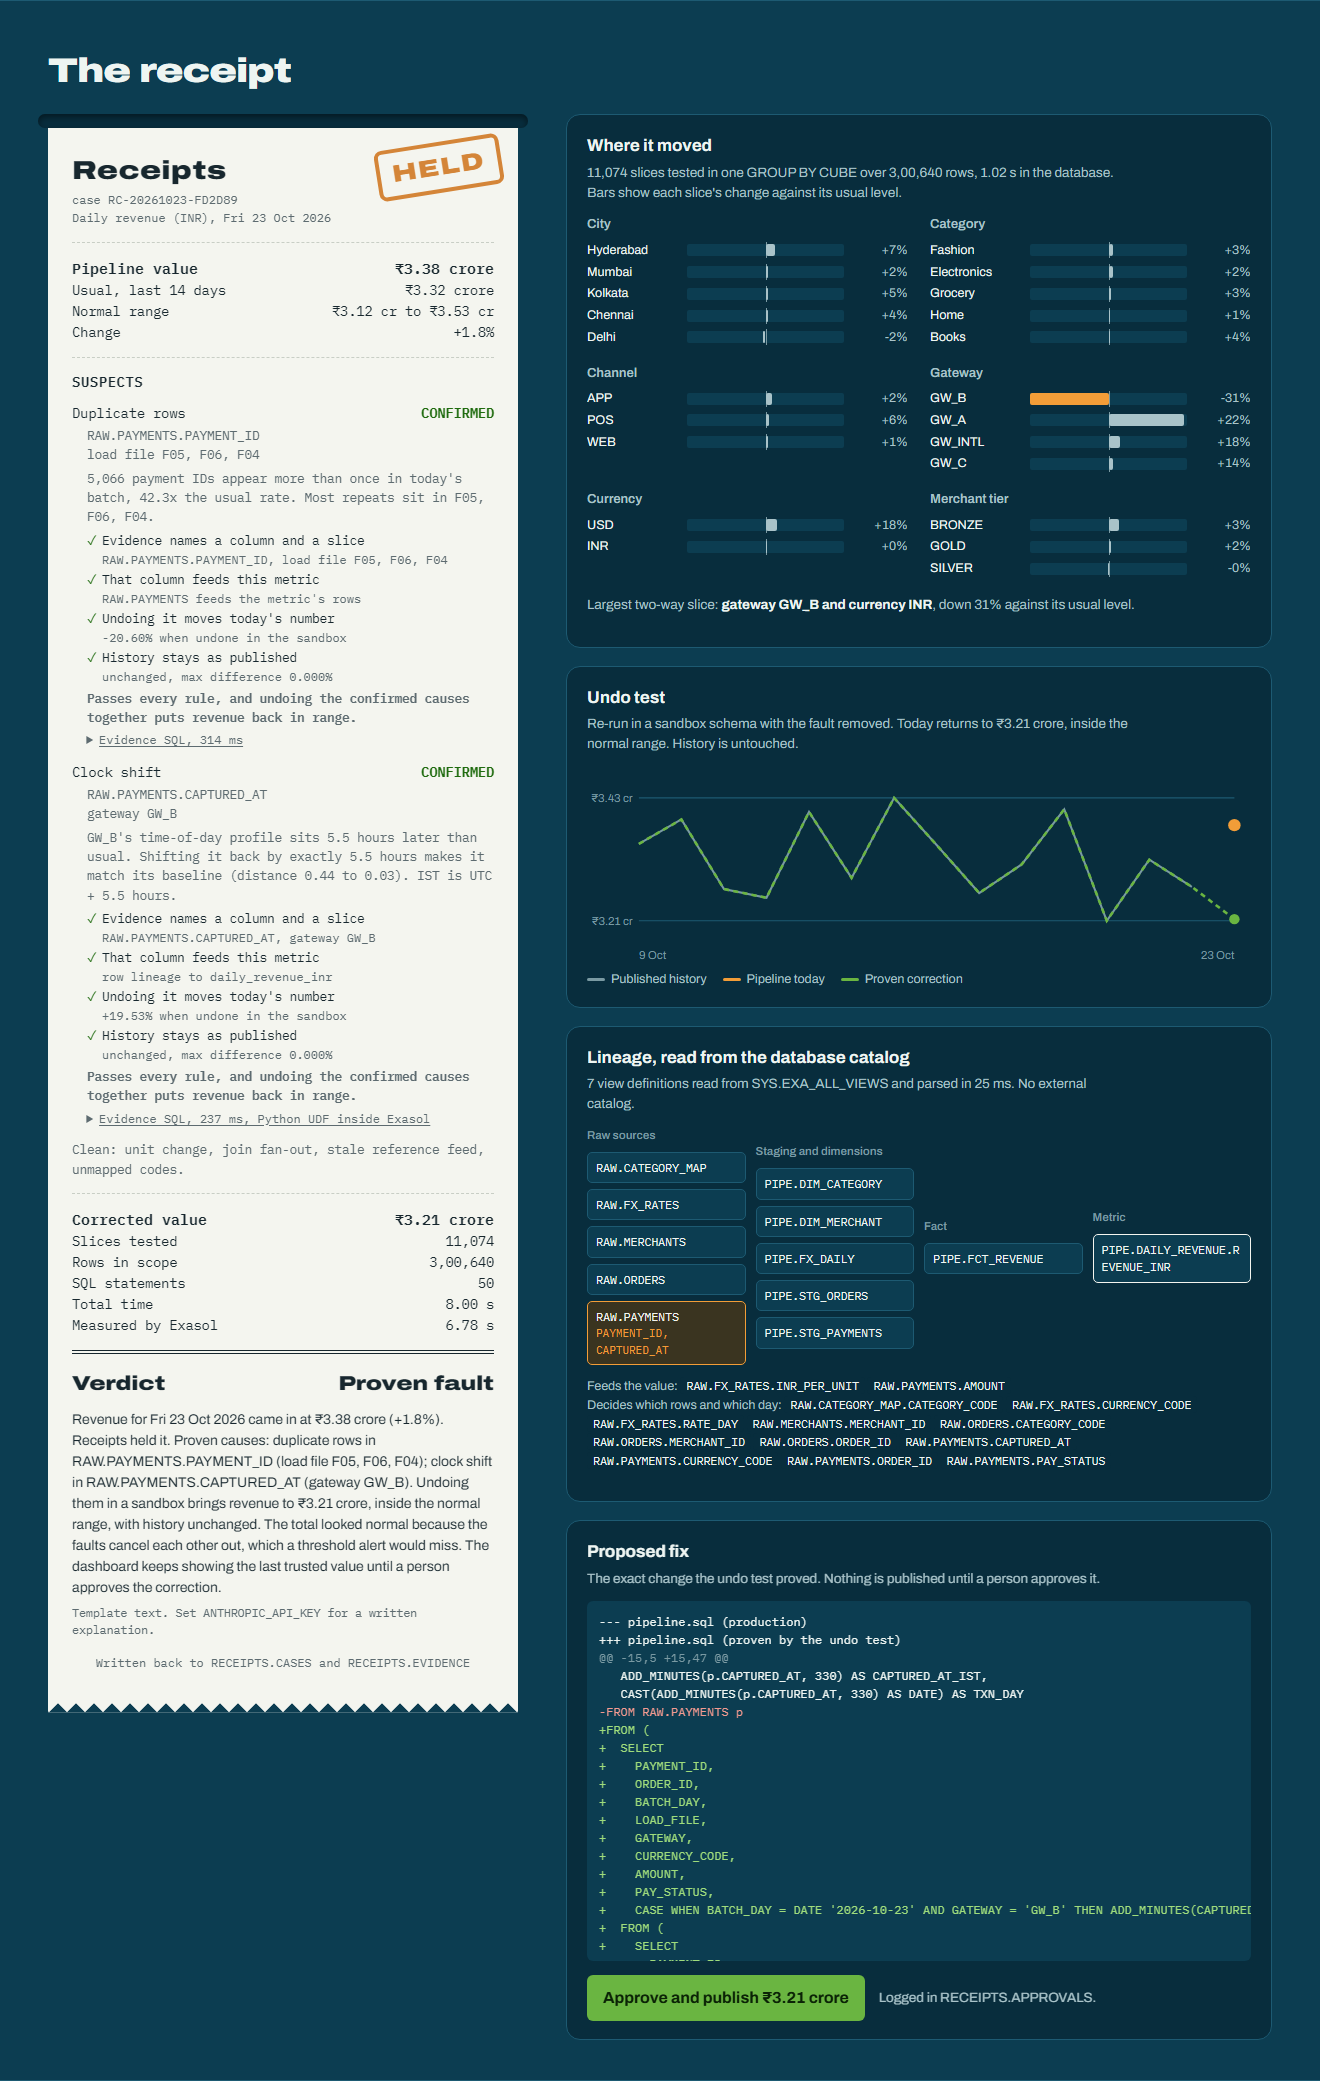
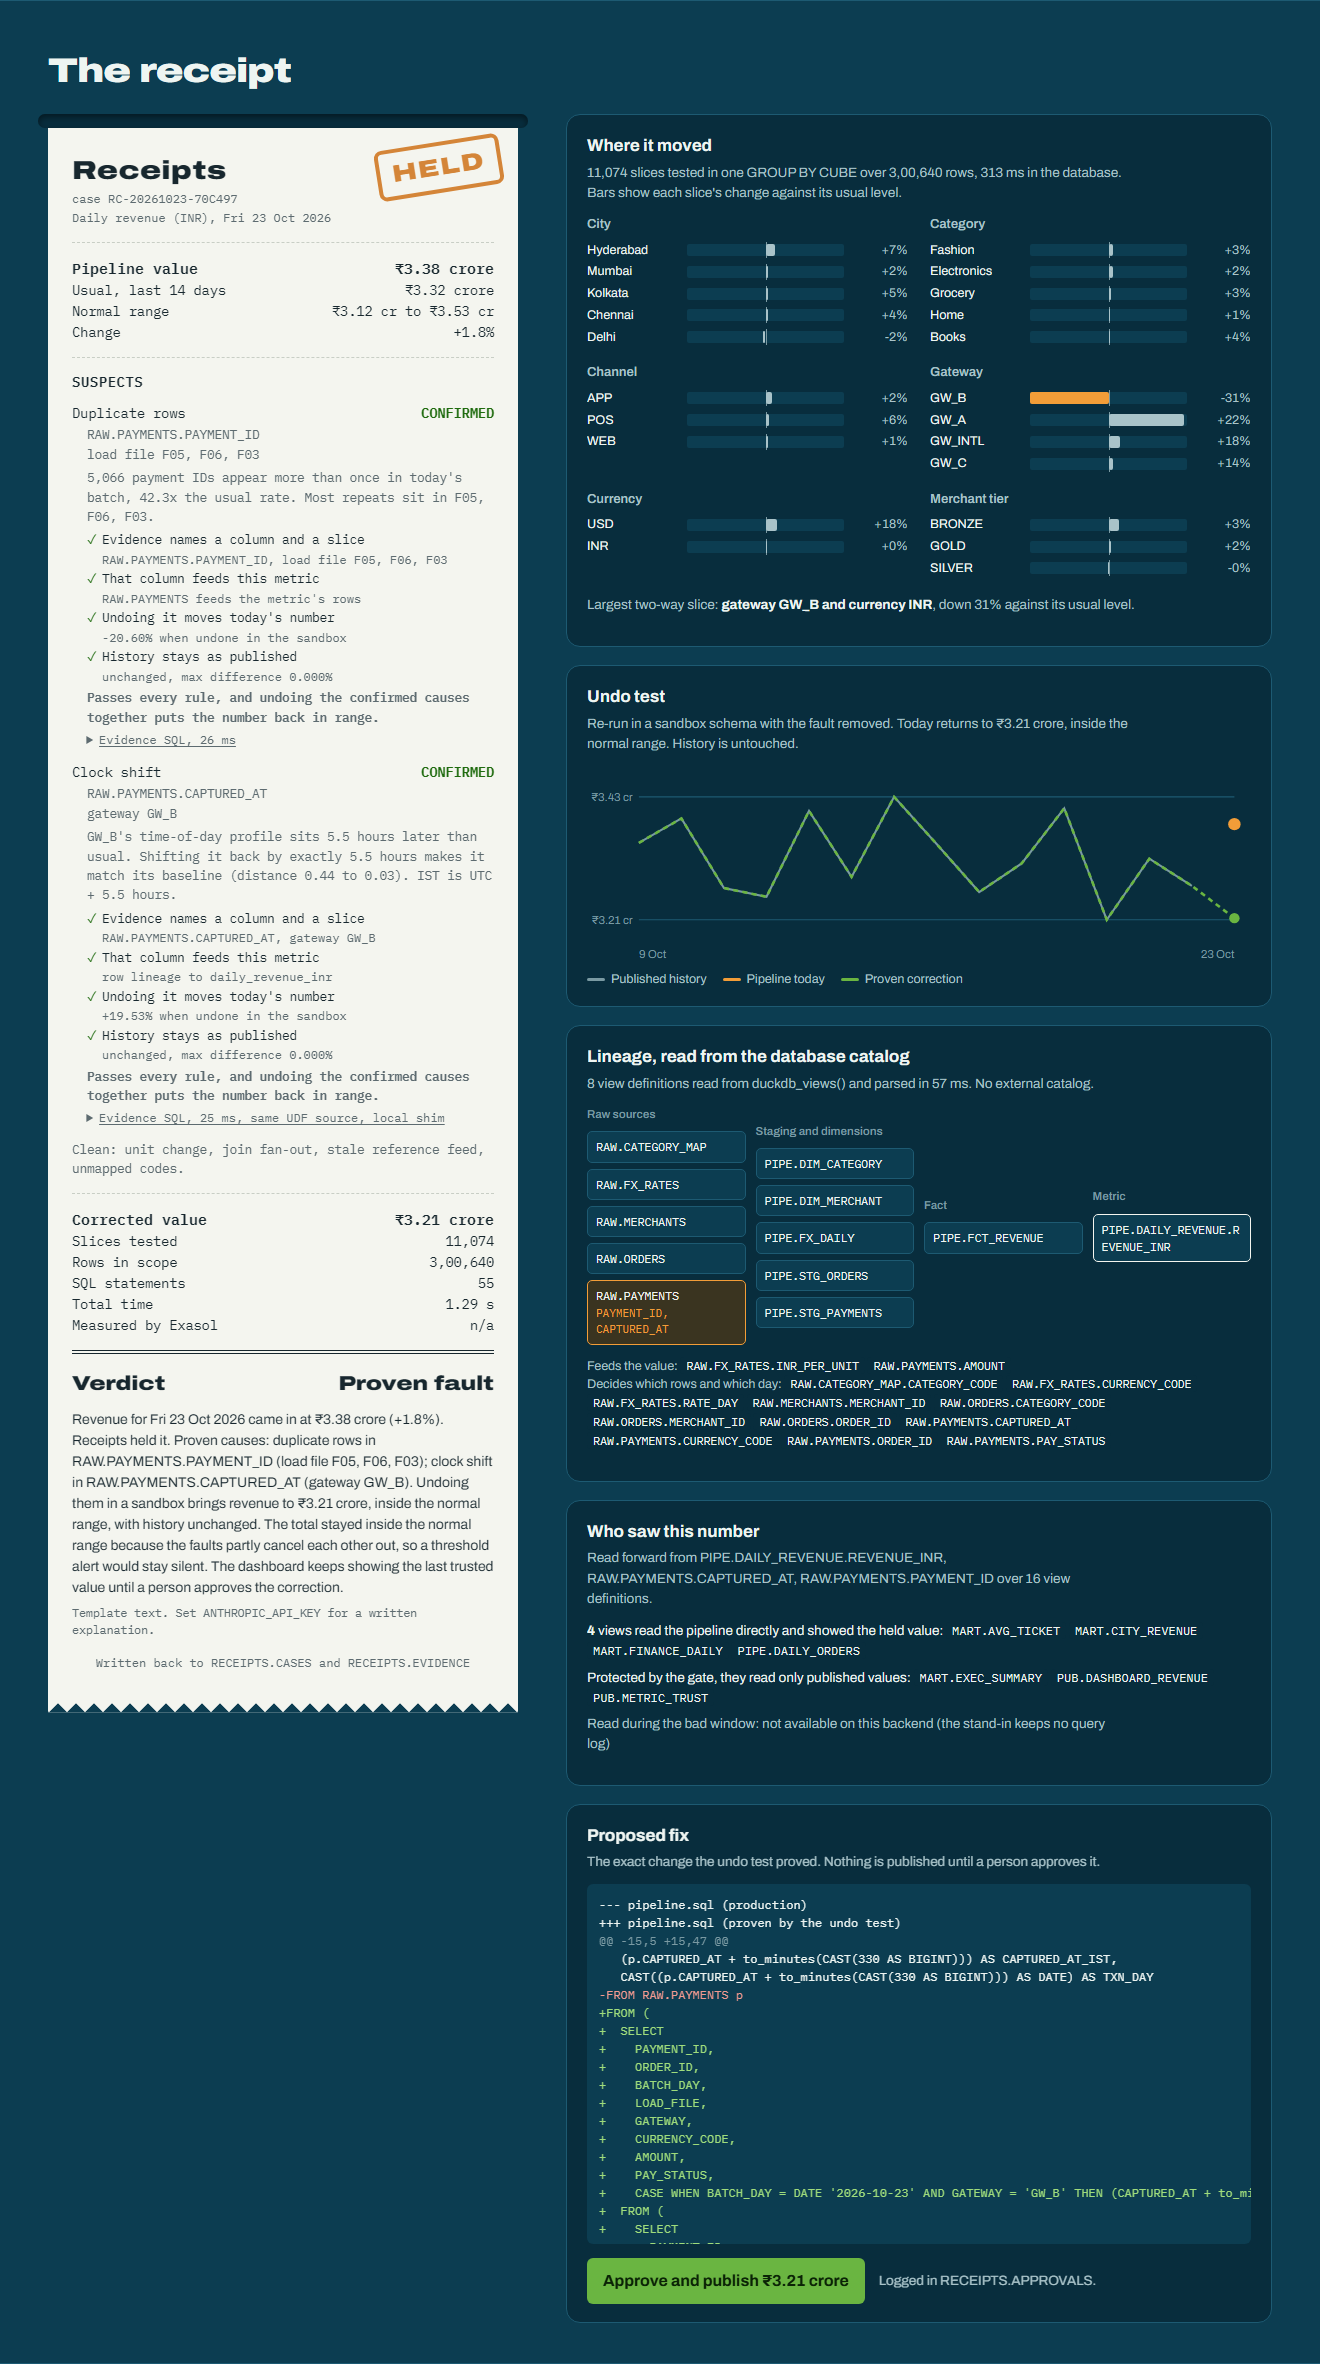
Retake the masked pair screenshot on the stand-in so the receipt text matches its range
Adds --only masked to the capture script; no other screenshot changed.

diff --git a/scripts/capture_screenshots.py b/scripts/capture_screenshots.py
@@ -9,7 +9,7 @@ a current date. Run with the same RECEIPTS_* / EXA_* variables as the server:
     python scripts/capture_screenshots.py --url http://127.0.0.1:8000
 
 `--only redteam` retakes just 09_redteam.png (no rebuild; the tab reads the committed red team report).
-`--only blast` lands the IST case and takes 11_who_saw.png; `--only badges` takes 12_badges.png from /badge.svg
+`--only masked` lands the masked pair and takes 05_masked_pair.png. `--only blast` lands the IST case and takes 11_who_saw.png; `--only badges` takes 12_badges.png from /badge.svg
 after a healthy night, the IST case, its approval and the festival (lab mode, no rebuild). `--only connect` needs
 no server (stop it first: the stand-in allows one process): it lands the IST case with `receipts run` and takes
 13_connect.png of `receipts connect`.
@@ -61,6 +61,14 @@ def redteam(page: Page) -> None:
     page.evaluate("document.querySelector('#lab').scrollIntoView({block: 'start'})")
     page.wait_for_timeout(500)
     shot(page.locator("#lab"), "09_redteam.png")
+
+
+def masked(page: Page, url: str) -> None:
+    open_page(page, url)
+    run(page, "masked_pair")
+    where = page.inner_text("#where")
+    assert "against its usual level" in where and "of the total change" not in where, where
+    shot(page.locator("#case"), "05_masked_pair.png")
 
 
 def blast(page: Page, url: str) -> None:
@@ -123,7 +131,7 @@ def main() -> None:
     global DAY
     ap.add_argument("--url", default="http://127.0.0.1:8000")
     ap.add_argument("--day", help="incoming day, YYYY-MM-DD (default: the one the server holds)")
-    ap.add_argument("--only", choices=["redteam", "blast", "badges", "connect"], help="take one screenshot only")
+    ap.add_argument("--only", choices=["redteam", "blast", "badges", "connect", "masked"], help="take one screenshot only")
     a = ap.parse_args()
     url = a.url
     import json
@@ -147,6 +155,10 @@ def main() -> None:
             redteam(page)
             browser.close()
             return
+        if a.only == "masked":
+            masked(page, url)
+            browser.close()
+            return
         if a.only in ("blast", "badges"):
             (blast if a.only == "blast" else badges)(page, url)
             browser.close()
@@ -168,11 +180,7 @@ def main() -> None:
         shot(page.locator(".ev-grid > div:nth-child(2)"), "10_measured_by_exasol.png")
 
         rebuild()
-        open_page(page, url)
-        run(page, "masked_pair")
-        where = page.inner_text("#where")
-        assert "against its usual level" in where and "of the total change" not in where, where
-        shot(page.locator("#case"), "05_masked_pair.png")
+        masked(page, url)
 
         rebuild()
         open_page(page, url)
